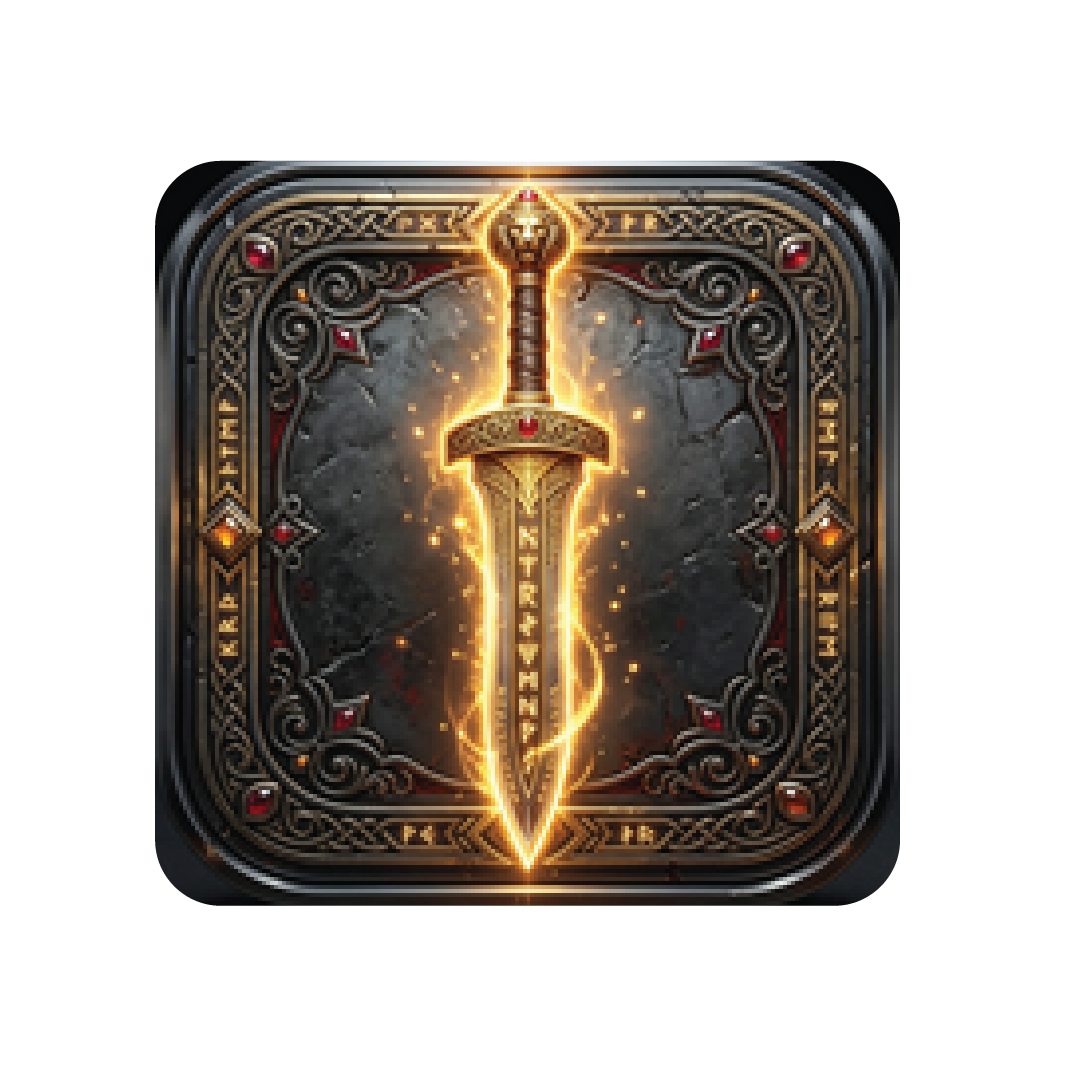
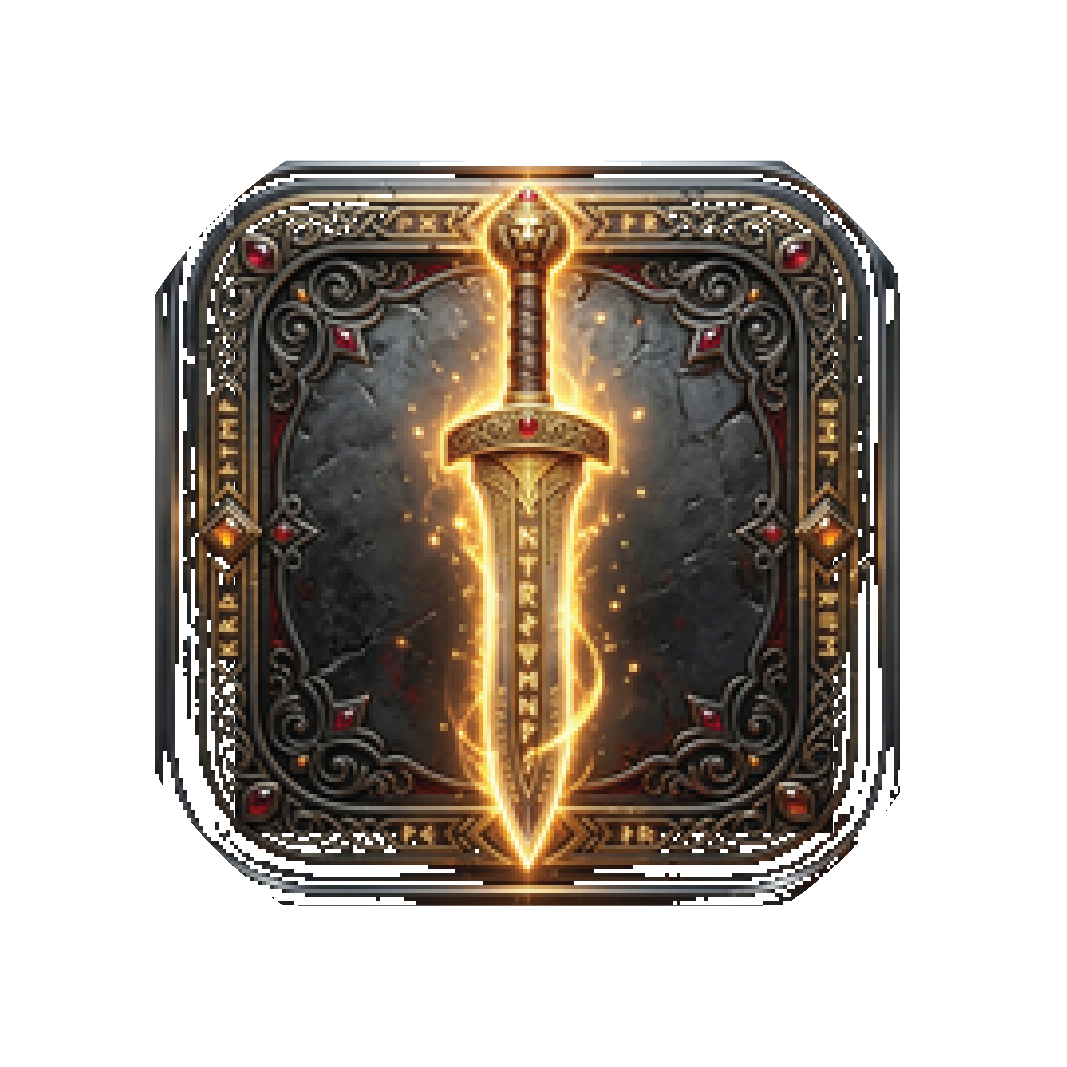
fix(assets): strip solid canvas padding from slot symbol PNGs to restore true 100% transparent backgrounds

Changed region(s): [[0.1237, 0.1237, 0.433, 0.866], [0.5567, 0.1237, 0.866, 0.866]]

diff --git a/src/index.css b/src/index.css
@@ -253,10 +253,14 @@ body {
 }
 
 .slot-symbol-icon-img {
-  width: 72px;
-  height: 72px;
+  width: 80px;
+  height: 80px;
   object-fit: contain;
-  filter: drop-shadow(0 0 14px rgba(245, 158, 11, 0.85));
+  background: transparent;
+  border: none;
+  outline: none;
+  box-shadow: none;
+  filter: drop-shadow(0 0 12px rgba(245, 158, 11, 0.75));
   animation: symbolPulse 2s ease-in-out infinite alternate;
 }
 
